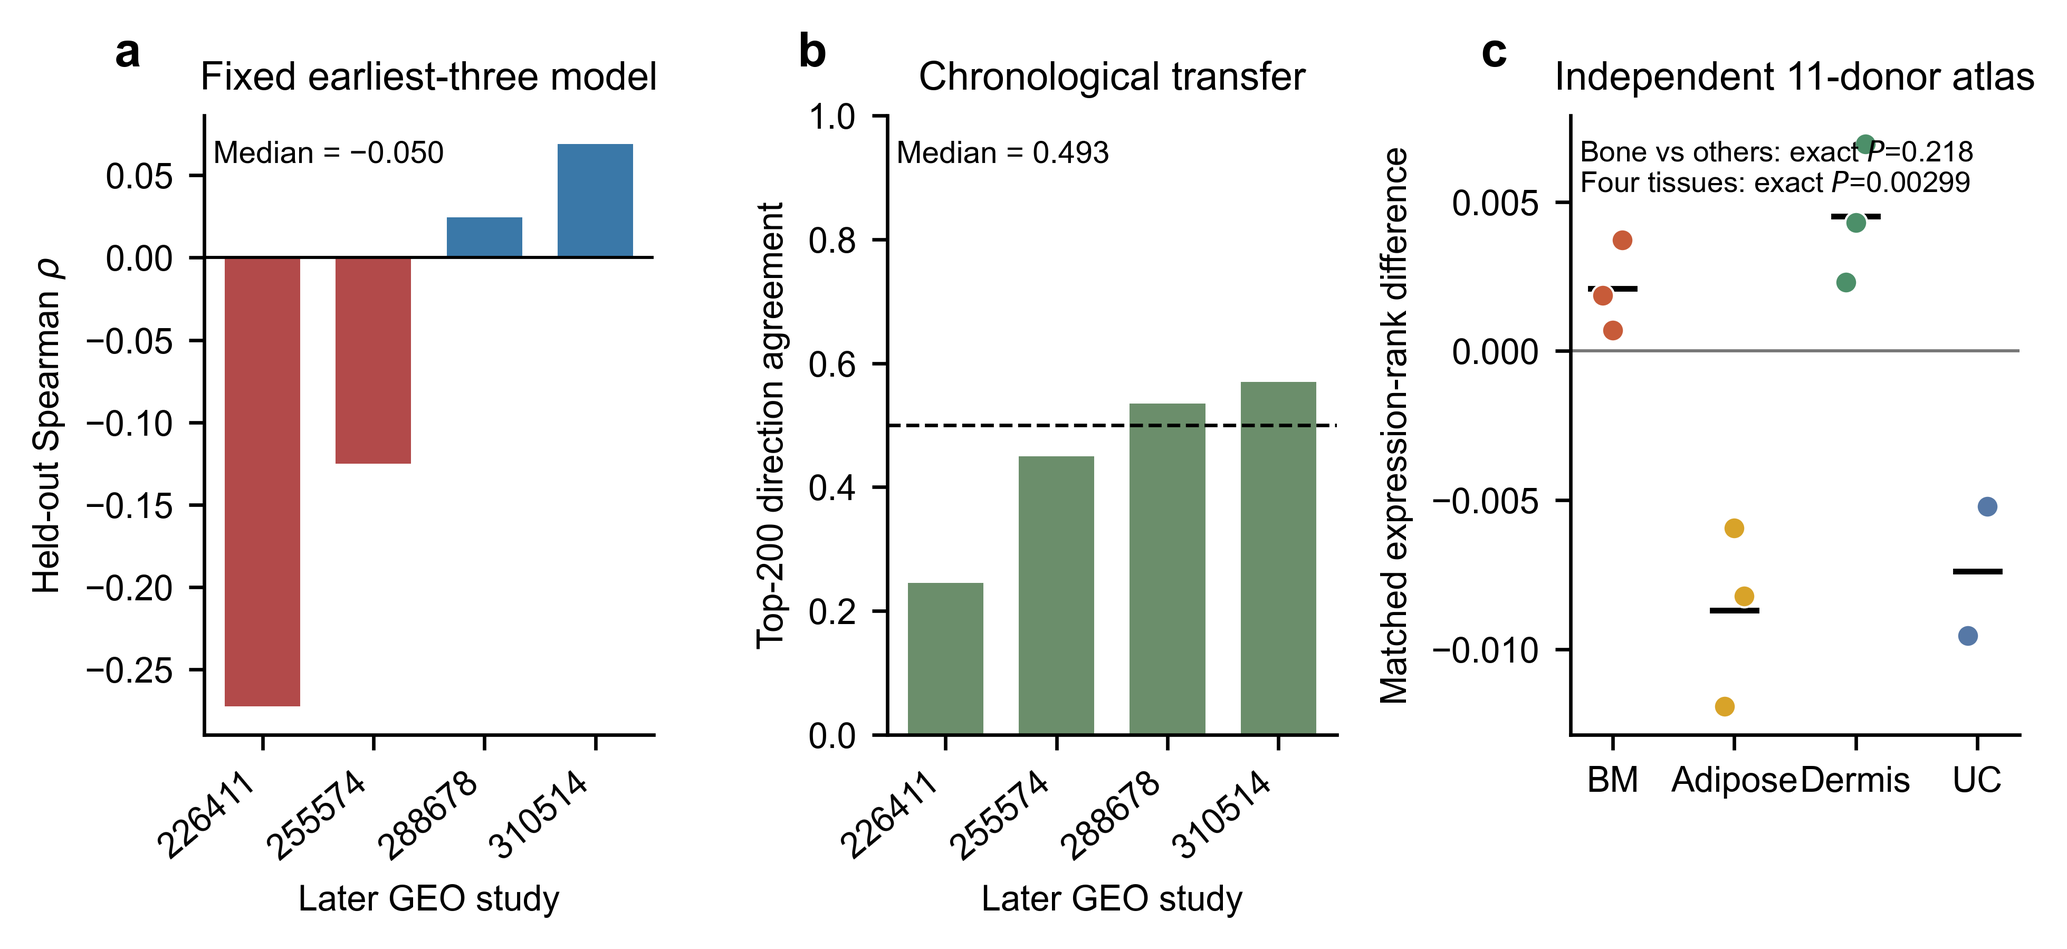
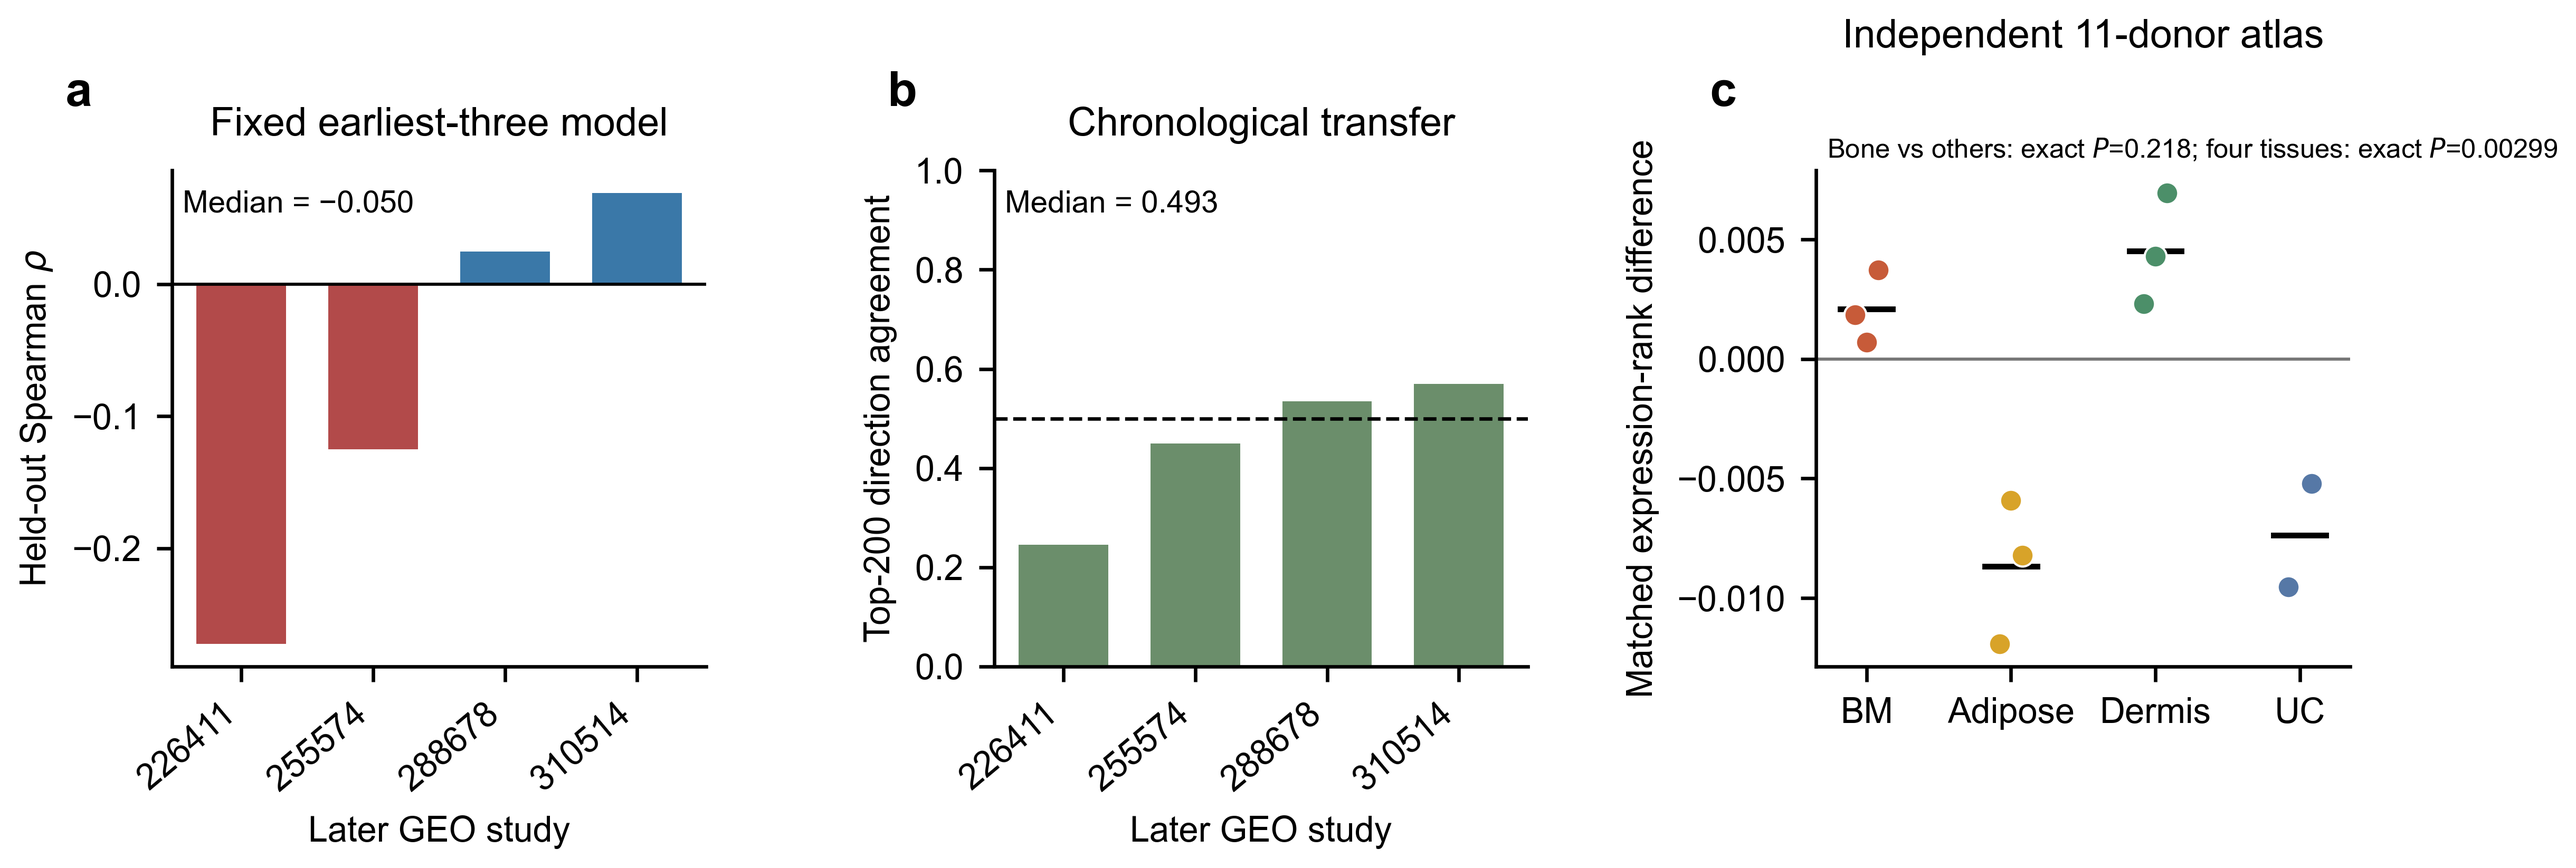
Separate Figure 5C annotations from data

diff --git a/work/high_impact/fix_figure5_v6.py b/work/high_impact/fix_figure5_v6.py
@@ -1,0 +1,71 @@
+#!/usr/bin/env python3
+"""Rebuild Figure 5 with panel-c statistics outside the plotting region."""
+from pathlib import Path
+import numpy as np
+import pandas as pd
+import matplotlib.pyplot as plt
+
+ROOT = Path(__file__).resolve().parents[2]
+V5 = ROOT / 'outputs/研究升级/high_impact_v5'
+OUT = ROOT / 'outputs/研究升级/Communications_Biology_v6'
+OUT.mkdir(parents=True, exist_ok=True)
+t = pd.read_csv(V5 / 'temporal_transportability/chronological_transportability_results.csv')
+d = pd.read_csv(V5 / 'multidonor_msc_atlas/donor_scores.csv')
+
+plt.rcParams.update({
+    'font.family': 'Arial', 'font.size': 8,
+    'axes.spines.top': False, 'axes.spines.right': False,
+    'pdf.fonttype': 42, 'ps.fonttype': 42,
+})
+fig, ax = plt.subplots(1, 3, figsize=(7.6, 2.75), gridspec_kw={'wspace': .54})
+
+z = t[t['mode'] == 'fixed_earliest_three'].copy()
+x = np.arange(len(z))
+colors = ['#B24A4A' if v < 0 else '#3A78A8' for v in z.spearman_rho]
+ax[0].bar(x, z.spearman_rho, color=colors, width=.68)
+ax[0].axhline(0, color='black', lw=.7)
+ax[0].set_xticks(x, z.held_out_study.str.replace('GSE', ''), rotation=40, ha='right')
+ax[0].set_ylabel(r'Held-out Spearman $\rho$')
+ax[0].set_xlabel('Later GEO study')
+ax[0].set_title('Fixed earliest-three model', fontsize=9, pad=8)
+ax[0].text(.02, .96, 'Median = −0.050', transform=ax[0].transAxes, va='top', fontsize=7)
+
+ax[1].bar(x, z.top200_directional_agreement, color='#6B8E6B', width=.68)
+ax[1].axhline(.5, color='black', lw=.8, ls='--')
+ax[1].set_ylim(0, 1)
+ax[1].set_xticks(x, z.held_out_study.str.replace('GSE', ''), rotation=40, ha='right')
+ax[1].set_ylabel('Top-200 direction agreement')
+ax[1].set_xlabel('Later GEO study')
+ax[1].set_title('Chronological transfer', fontsize=9, pad=8)
+ax[1].text(.02, .96, 'Median = 0.493', transform=ax[1].transAxes, va='top', fontsize=7)
+
+order = ['Bone marrow', 'Adipose', 'Dermis', 'Umbilical cord']
+palette = {'Bone marrow':'#C75B39', 'Adipose':'#D8A329',
+           'Dermis':'#4C8F69', 'Umbilical cord':'#5678A6'}
+for i, group in enumerate(order):
+    vals = d.loc[d.tissue == group, 'absolute_top200_minus_matched_background'].to_numpy()
+    xx = i + np.linspace(-.08, .08, len(vals))
+    ax[2].scatter(xx, vals, s=25, color=palette[group], edgecolor='white', lw=.5, zorder=3)
+    ax[2].plot([i-.18, i+.18], [vals.mean(), vals.mean()], color='black', lw=1.3)
+ax[2].axhline(0, color='#777777', lw=.7)
+ax[2].set_xticks(range(4), ['BM', 'Adipose', 'Dermis', 'UC'])
+ax[2].set_ylabel('Matched expression-rank difference')
+ax[2].set_title('Independent 11-donor atlas', fontsize=9, pad=28)
+# Keep inferential text in a dedicated subtitle band above the axes so it cannot
+# cover donor observations or their mean bars.
+ax[2].text(.02, 1.015,
+           'Bone vs others: exact $P$=0.218; four tissues: exact $P$=0.00299',
+           transform=ax[2].transAxes, va='bottom', ha='left', fontsize=6.1,
+           clip_on=False)
+
+for i, axis in enumerate(ax):
+    axis.text(-.2, 1.13, chr(97+i), transform=axis.transAxes,
+              fontweight='bold', fontsize=11, clip_on=False)
+
+fig.subplots_adjust(top=.82, bottom=.25, left=.08, right=.985)
+fig.savefig(OUT/'Figure_5.png', dpi=600, bbox_inches='tight', pad_inches=.06)
+fig.savefig(OUT/'Figure_5.tif', dpi=600, bbox_inches='tight', pad_inches=.06,
+            pil_kwargs={'compression':'tiff_lzw'})
+fig.savefig(OUT/'Figure_5.pdf', bbox_inches='tight', pad_inches=.06)
+plt.close(fig)
+print(OUT)
